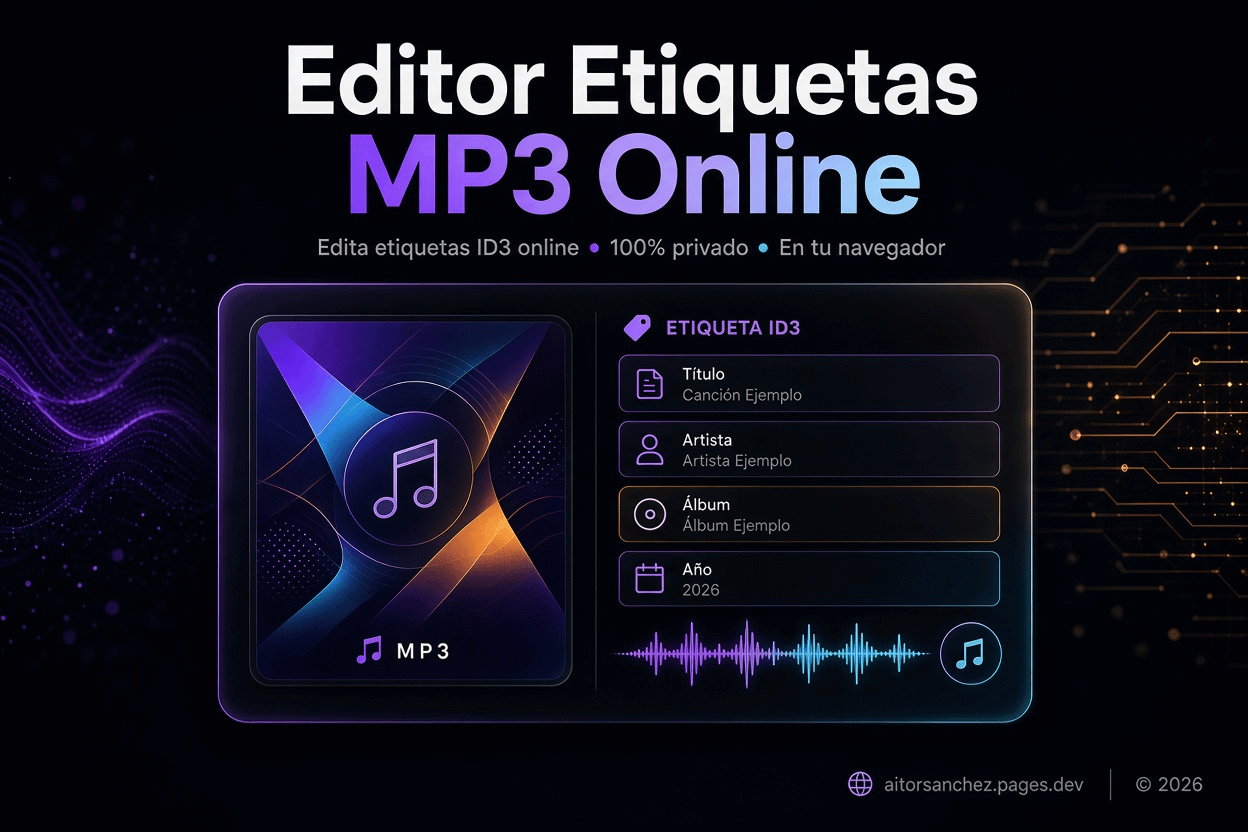
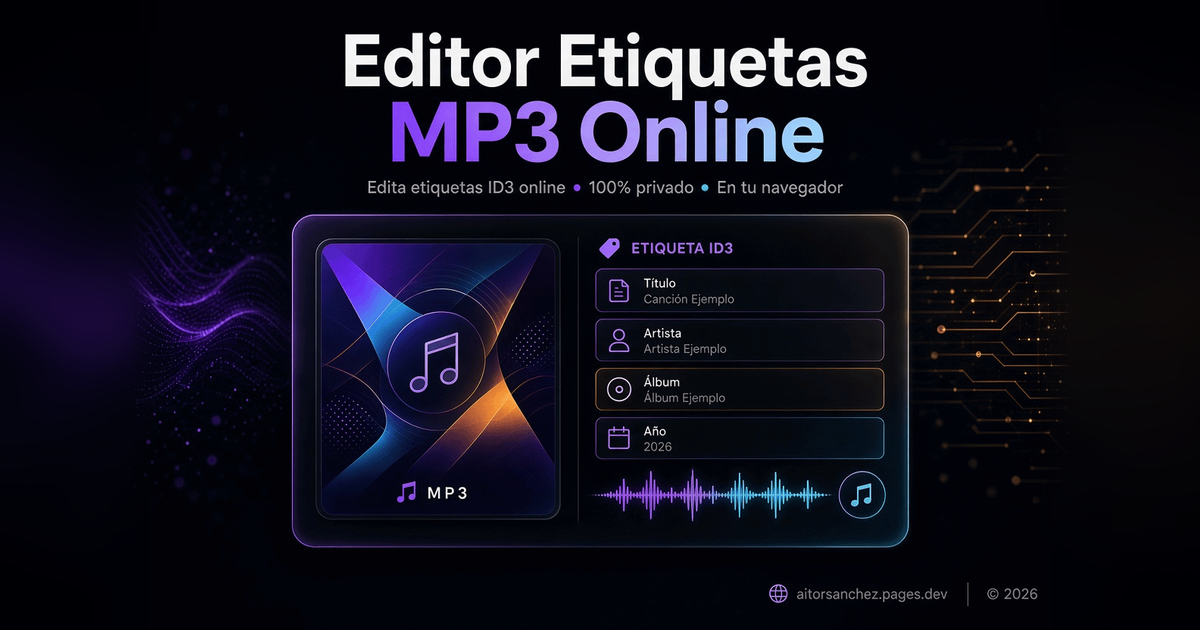
Add files via upload

diff --git a/index.html b/index.html
@@ -3,19 +3,145 @@
   <head>
     <meta charset="UTF-8" />
     <meta name="viewport" content="width=device-width, initial-scale=1.0" />
+
+    <!-- Verificación de propiedad (Google Search Console) -->
+    <meta name="google-site-verification" content="fK2gZcSYwHHPqDFWdIB5WD1eVONqa6kwIFqkRDRyX4g" />
+
+    <!-- SEO básico -->
     <title>Editor Etiquetas MP3 Online - Editor ID3 100% en el Navegador</title>
     <meta name="description" content="Editor ID3 de archivos MP3 moderno, rápido y 100% en el navegador. Edita metadatos y carátulas por lotes con privacidad total." />
+    <meta name="author" content="Aitor Sánchez Gutiérrez" />
+    <meta name="robots" content="index, follow, max-image-preview:large, max-snippet:-1" />
+    <meta name="theme-color" content="#4f46e5" />
+    <link rel="canonical" href="https://mp3tageditor-7zg.pages.dev/" />
+    <link rel="icon" type="image/svg+xml" href="/favicon.svg" />
+
+    <!-- Open Graph -->
+    <meta property="og:site_name" content="Editor Etiquetas MP3 Online" />
+    <meta property="og:locale" content="es_ES" />
+    <meta property="og:type" content="website" />
+    <meta property="og:url" content="https://mp3tageditor-7zg.pages.dev/" />
     <meta property="og:title" content="Editor Etiquetas MP3 Online - Editor ID3 100% en el Navegador" />
     <meta property="og:description" content="Editor ID3 de archivos MP3 moderno, rápido y 100% en el navegador. Edita metadatos y carátulas por lotes con privacidad total." />
-    <meta property="og:type" content="website" />
+    <meta property="og:image" content="https://mp3tageditor-7zg.pages.dev/og-image.png" />
+    <meta property="og:image:secure_url" content="https://mp3tageditor-7zg.pages.dev/og-image.png" />
+    <meta property="og:image:type" content="image/png" />
+    <meta property="og:image:width" content="1200" />
+    <meta property="og:image:height" content="630" />
+    <meta property="og:image:alt" content="Editor Etiquetas MP3 Online: edita etiquetas ID3 y carátulas, 100% privado y en tu navegador" />
+
+    <!-- Twitter Cards -->
     <meta name="twitter:card" content="summary_large_image" />
+    <meta name="twitter:title" content="Editor Etiquetas MP3 Online - Editor ID3 100% en el Navegador" />
+    <meta name="twitter:description" content="Editor ID3 de archivos MP3 moderno, rápido y 100% en el navegador. Edita metadatos y carátulas por lotes con privacidad total." />
+    <meta name="twitter:image" content="https://mp3tageditor-7zg.pages.dev/og-image.png" />
+    <meta name="twitter:image:alt" content="Editor Etiquetas MP3 Online: edita etiquetas ID3 y carátulas, 100% privado y en tu navegador" />
+
+    <!-- Datos estructurados (JSON-LD) -->
+    <script type="application/ld+json">
+    {
+      "@context": "https://schema.org",
+      "@graph": [
+        {
+          "@type": "WebApplication",
+          "@id": "https://mp3tageditor-7zg.pages.dev/#webapp",
+          "name": "Editor Etiquetas MP3 Online",
+          "url": "https://mp3tageditor-7zg.pages.dev/",
+          "description": "Editor ID3 de archivos MP3 moderno, rápido y 100% en el navegador. Edita metadatos y carátulas por lotes con privacidad total.",
+          "applicationCategory": "MultimediaApplication",
+          "operatingSystem": "Any",
+          "browserRequirements": "Requiere un navegador moderno con JavaScript",
+          "inLanguage": "es",
+          "isAccessibleForFree": true,
+          "image": "https://mp3tageditor-7zg.pages.dev/og-image.png",
+          "offers": {
+            "@type": "Offer",
+            "price": "0",
+            "priceCurrency": "EUR"
+          },
+          "author": { "@id": "https://aitorsanchez.pages.dev/#person" },
+          "creator": { "@id": "https://aitorsanchez.pages.dev/#person" },
+          "publisher": { "@id": "https://aitorsanchez.pages.dev/#person" },
+          "isPartOf": { "@id": "https://mp3tageditor-7zg.pages.dev/#website" },
+          "mainEntityOfPage": { "@id": "https://mp3tageditor-7zg.pages.dev/#webpage" }
+        },
+        {
+          "@type": "WebSite",
+          "@id": "https://mp3tageditor-7zg.pages.dev/#website",
+          "name": "Editor Etiquetas MP3 Online",
+          "url": "https://mp3tageditor-7zg.pages.dev/",
+          "inLanguage": "es",
+          "publisher": { "@id": "https://aitorsanchez.pages.dev/#person" }
+        },
+        {
+          "@type": "WebPage",
+          "@id": "https://mp3tageditor-7zg.pages.dev/#webpage",
+          "url": "https://mp3tageditor-7zg.pages.dev/",
+          "name": "Editor Etiquetas MP3 Online - Editor ID3 100% en el Navegador",
+          "inLanguage": "es",
+          "isPartOf": { "@id": "https://mp3tageditor-7zg.pages.dev/#website" },
+          "primaryImageOfPage": {
+            "@type": "ImageObject",
+            "url": "https://mp3tageditor-7zg.pages.dev/og-image.png",
+            "width": 1200,
+            "height": 630
+          },
+          "author": { "@id": "https://aitorsanchez.pages.dev/#person" }
+        },
+        {
+          "@type": "Person",
+          "@id": "https://aitorsanchez.pages.dev/#person",
+          "name": "Aitor Sánchez Gutiérrez",
+          "url": "https://aitorsanchez.pages.dev",
+          "mainEntityOfPage": "https://aitorsanchez.pages.dev",
+          "sameAs": [
+            "https://aitorsanchez.pages.dev",
+            "https://aitorhub.vercel.app"
+          ],
+          "contactPoint": {
+            "@type": "ContactPoint",
+            "contactType": "customer support",
+            "url": "https://aitorsanchez.pages.dev/contacto",
+            "availableLanguage": ["es"]
+          },
+          "owns": { "@id": "https://aitorhub.vercel.app/#website" }
+        },
+        {
+          "@type": "WebSite",
+          "@id": "https://aitorhub.vercel.app/#website",
+          "name": "Aitor Hub",
+          "url": "https://aitorhub.vercel.app",
+          "creator": { "@id": "https://aitorsanchez.pages.dev/#person" }
+        }
+      ]
+    }
+    </script>
+
+    <!-- Seguimiento (dashboard) -->
+    <script src="https://aitors-hub-dashboard.asanchezgu.workers.dev/tracker.js"
+            data-app="mp3tageditor"
+            data-key="ak_eb9ee2b84c9044ab8e8991b0a15e5ee5"
+            async>
+    </script>
+
+    <!-- Fuentes -->
     <link rel="preconnect" href="https://fonts.googleapis.com" />
     <link rel="preconnect" href="https://fonts.gstatic.com" crossorigin />
     <link href="https://fonts.googleapis.com/css2?family=JetBrains+Mono:wght@400;500;600&family=Plus+Jakarta+Sans:wght@400;500;600;700&display=swap" rel="stylesheet" />
   </head>
   <body class="bg-slate-50 text-slate-900 dark:bg-slate-950 dark:text-slate-100 font-sans antialiased min-h-screen">
     <div id="root"></div>
+    <noscript>
+      <main style="max-width:40rem;margin:4rem auto;padding:1rem;font-family:sans-serif">
+        <h1>Editor Etiquetas MP3 Online</h1>
+        <p>Editor ID3 de archivos MP3 100% en el navegador: edita metadatos y carátulas por lotes con privacidad total. Necesitas activar JavaScript para usar esta aplicación.</p>
+        <p>
+          Creado por <a href="https://aitorsanchez.pages.dev" rel="noopener noreferrer">Aitor Sánchez Gutiérrez</a> ·
+          <a href="https://aitorhub.vercel.app" rel="noopener noreferrer">Aitor Hub</a> ·
+          <a href="https://aitorsanchez.pages.dev/contacto" rel="noopener noreferrer">Contacto</a>
+        </p>
+      </main>
+    </noscript>
     <script type="module" src="/src/main.tsx"></script>
   </body>
 </html>
-

diff --git a/src/App.tsx b/src/App.tsx
@@ -38,12 +38,21 @@ import { CleanTagsModal } from './components/CleanTagsModal';
 import { AboutView } from './components/AboutView';
 import { ToastContainer, type ToastMessage } from './components/Toast';
 
+// Límites para evitar agotar la memoria del navegador (DoS local)
+const MAX_FILES_PER_SESSION = 200;
+const MAX_FILE_SIZE_BYTES = 100 * 1024 * 1024; // 100 MB por archivo
+
 export default function App() {
   // Theme state
   const [isDark, setIsDark] = useState<boolean>(() => {
     if (typeof window !== 'undefined') {
-      const saved = localStorage.getItem('theme');
-      if (saved) return saved === 'dark';
+      let saved: string | null = null;
+      try {
+        saved = localStorage.getItem('theme');
+      } catch {
+        /* almacenamiento bloqueado (modo privado, políticas del navegador) */
+      }
+      if (saved === 'dark' || saved === 'light') return saved === 'dark';
       return window.matchMedia('(prefers-color-scheme: dark)').matches;
     }
     return false;
@@ -81,12 +90,11 @@ export default function App() {
 
   // Apply dark class to documentElement
   useEffect(() => {
-    if (isDark) {
-      document.documentElement.classList.add('dark');
-      localStorage.setItem('theme', 'dark');
-    } else {
-      document.documentElement.classList.remove('dark');
-      localStorage.setItem('theme', 'light');
+    document.documentElement.classList.toggle('dark', isDark);
+    try {
+      localStorage.setItem('theme', isDark ? 'dark' : 'light');
+    } catch {
+      /* ignorar si el almacenamiento no está disponible */
     }
   }, [isDark]);
 
@@ -106,12 +114,29 @@ export default function App() {
 
   // Load files from FileList or drop
   const handleFilesSelected = async (fileList: FileList | File[]) => {
-    const rawFiles = Array.from(fileList).filter(
+    const mp3Files = Array.from(fileList).filter(
       (f) =>
         f.name.toLowerCase().endsWith('.mp3') ||
         f.type === 'audio/mpeg' ||
         f.type === 'audio/mp3'
     );
+
+    const sizeOk = mp3Files.filter((f) => f.size > 0 && f.size <= MAX_FILE_SIZE_BYTES);
+    const availableSlots = Math.max(0, MAX_FILES_PER_SESSION - files.length);
+    const rawFiles = sizeOk.slice(0, availableSlots);
+    const skipped = mp3Files.length - rawFiles.length;
+
+    if (mp3Files.length > 0 && skipped > 0) {
+      addToast(
+        'info',
+        `${skipped} archivo${skipped === 1 ? '' : 's'} omitido${skipped === 1 ? '' : 's'}`,
+        `Límites: máx. ${MAX_FILES_PER_SESSION} pistas por sesión y ${MAX_FILE_SIZE_BYTES / (1024 * 1024)} MB por archivo.`
+      );
+    }
+
+    if (rawFiles.length === 0 && mp3Files.length > 0) {
+      return;
+    }
 
     if (rawFiles.length === 0) {
       addToast(

diff --git a/src/utils/id3.ts b/src/utils/id3.ts
@@ -4,6 +4,16 @@ import type { MP3FileItem, MP3Picture, MP3Tags, CleanTagsOptions } from '../type
 import { sanitizeFilename } from './formatters';
 
 /**
+ * El MIME de una carátula embebida es un dato no confiable: solo se admiten formatos de imagen conocidos.
+ */
+const ALLOWED_IMAGE_MIMES = new Set(['image/jpeg', 'image/png', 'image/webp', 'image/gif']);
+export function safeImageMime(mime: unknown): string {
+  const m = typeof mime === 'string' ? mime.toLowerCase().trim() : '';
+  if (m === 'image/jpg') return 'image/jpeg';
+  return ALLOWED_IMAGE_MIMES.has(m) ? m : 'image/jpeg';
+}
+
+/**
  * Creates empty MP3 tags object
  */
 export function createEmptyTags(fallbackTitle = ''): MP3Tags {
@@ -142,7 +152,16 @@ export function createPictureFromBytes(data: Uint8Array, mimeType: string): Prom
  * Converts an uploaded image File into an MP3Picture suitable for ID3 APIC frame
  * Always normalizes to JPEG if not already a clean JPEG or PNG
  */
+const MAX_COVER_BYTES = 10 * 1024 * 1024; // 10 MB
+const MAX_COVER_PIXELS = 50_000_000; // evita canvas gigantes
+
 export async function convertImageFileToPicture(file: File): Promise<MP3Picture> {
+  if (!['image/jpeg', 'image/png', 'image/webp', 'image/gif'].includes(file.type)) {
+    throw new Error('Formato de imagen no admitido (usa JPG, PNG, WebP o GIF)');
+  }
+  if (file.size > MAX_COVER_BYTES) {
+    throw new Error('La imagen supera el límite de 10 MB');
+  }
   // If already standard JPEG or PNG, read directly
   if (file.type === 'image/jpeg' || file.type === 'image/png') {
     const buffer = await file.arrayBuffer();
@@ -155,6 +174,10 @@ export async function convertImageFileToPicture(file: File): Promise<MP3Picture>
     reader.onload = (e) => {
       const img = new Image();
       img.onload = () => {
+        if (img.naturalWidth * img.naturalHeight > MAX_COVER_PIXELS) {
+          reject(new Error('La imagen tiene una resolución demasiado grande'));
+          return;
+        }
         const canvas = document.createElement('canvas');
         canvas.width = img.naturalWidth;
         canvas.height = img.naturalHeight;
@@ -208,7 +231,7 @@ export async function readMP3File(file: File): Promise<MP3FileItem> {
         if (t.picture && t.picture.data && t.picture.data.length > 0) {
           try {
             const byteArray = new Uint8Array(t.picture.data);
-            const mime = t.picture.format || 'image/jpeg';
+            const mime = safeImageMime(t.picture.format);
             picture = await createPictureFromBytes(byteArray, mime);
           } catch {
             picture = null;

diff --git a/src/utils/zipExport.ts b/src/utils/zipExport.ts
@@ -1,6 +1,24 @@
 import JSZip from 'jszip';
 import type { MP3FileItem } from '../types/mp3';
 import { writeID3Tags, stripAllID3Tags, isTagsEmpty } from './id3';
+import { sanitizeFilename } from './formatters';
+
+/**
+ * Devuelve un nombre seguro y único dentro del ZIP (evita sobrescrituras por duplicados)
+ */
+function uniqueZipName(rawName: string, used: Set<string>): string {
+  const safe = sanitizeFilename(rawName) || 'pista.mp3';
+  const dot = safe.lastIndexOf('.');
+  const base = dot > 0 ? safe.slice(0, dot) : safe;
+  const ext = dot > 0 ? safe.slice(dot) : '';
+  let candidate = safe;
+  let n = 1;
+  while (used.has(candidate.toLowerCase())) {
+    candidate = `${base} (${n++})${ext}`;
+  }
+  used.add(candidate.toLowerCase());
+  return candidate;
+}
 
 /**
  * Downloads a single Blob with the specified filename in the browser
@@ -36,12 +54,15 @@ export async function exportFilesToZip(
 ): Promise<void> {
   const zip = new JSZip();
   const total = items.length;
+  const usedNames = new Set<string>();
 
   for (let i = 0; i < total; i++) {
     const item = items[i];
     if (onProgress) {
       onProgress(i + 1, total, item.currentFileName);
     }
+
+    const zipName = uniqueZipName(item.currentFileName, usedNames);
 
     try {
       const buffer = await item.file.arrayBuffer();
@@ -50,11 +71,11 @@ export async function exportFilesToZip(
         ? stripAllID3Tags(buffer)
         : await writeID3Tags(buffer, item.tags);
       const taggedBuffer = await blob.arrayBuffer();
-      zip.file(item.currentFileName, taggedBuffer);
+      zip.file(zipName, taggedBuffer);
     } catch {
       // Fallback: add original file buffer if tagging fails
       const fallbackBuffer = await item.file.arrayBuffer();
-      zip.file(item.currentFileName, fallbackBuffer);
+      zip.file(zipName, fallbackBuffer);
     }
   }
 

diff --git a/src/utils/formatters.ts b/src/utils/formatters.ts
@@ -24,8 +24,13 @@ export function formatDuration(seconds: number): string {
  * Sanitizes filename to prevent illegal filesystem characters across OSes
  */
 export function sanitizeFilename(name: string): string {
-  return name
-    .replace(/[<>:"/\\|?*\x00-\x1F]/g, '_')
+  const clean = name
+    .replace(/[<>:"/\\|?*\x00-\x1F\x7F]/g, '_')
     .replace(/\s+/g, ' ')
-    .trim();
+    .replace(/^[.\s]+/, '') // sin puntos iniciales (evita "..", archivos ocultos)
+    .replace(/[.\s]+$/, '') // Windows no admite puntos/espacios finales
+    .trim()
+    .slice(0, 200);
+  // Nombres reservados de Windows (CON, NUL, COM1...)
+  return /^(con|prn|aux|nul|com\d|lpt\d)(\..*)?$/i.test(clean) ? `_${clean}` : clean;
 }

diff --git a/README.md b/README.md
@@ -13,7 +13,7 @@ Edita metadatos y carátulas por lotes con privacidad total: los archivos **nunc
 - Exportación individual o en ZIP
 - Reproductor de audio integrado
 - Tema claro / oscuro
-- Sin servidores, sin claves API, sin telemetría
+- Sin servidores ni claves API: los archivos MP3 nunca se suben (solo métricas de uso anónimas de la web)
 
 ## Ejecutar localmente
 
@@ -61,3 +61,7 @@ No existe backend, no se envían archivos a ningún servidor y no se requieren c
 ## Licencia
 
 MIT
+
+### Cabeceras de seguridad
+
+`public/_headers` define (Cloudflare Pages) una Content-Security-Policy estricta, HSTS, `X-Content-Type-Options`, `X-Frame-Options`, `Referrer-Policy` y `Permissions-Policy`. Si añades nuevos scripts o dominios externos, actualiza la CSP en ese archivo.
